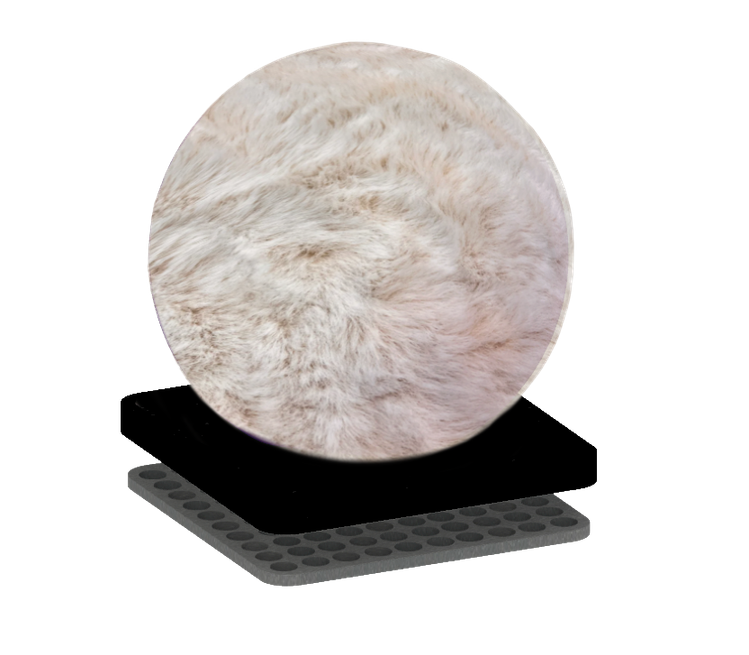
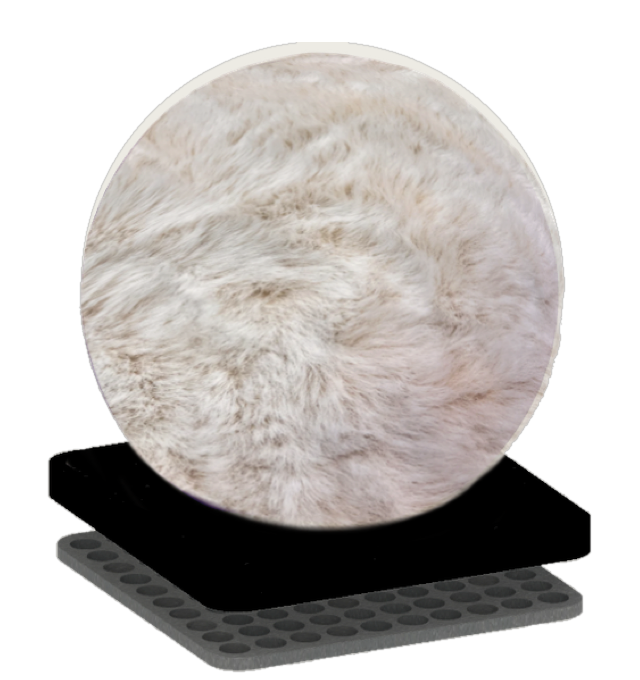
Make ORB material swatches interactive with camouflage stage
Clicking a swatch swaps the orb render and fills the stage backdrop
with the same texture, showing ORB camouflaging into each material.
Adds the fourth material (woven canvas) and per-material orb renders
extracted from the project deck with transparent backgrounds.

diff --git a/orb.html b/orb.html
@@ -106,24 +106,29 @@
         <section class="project-section">
           <p class="section-label">05 · Materials</p>
           <h3>Finishes that match your home</h3>
-          <p>Because the shell is separate from the core, it can be finished in more than plastic. ORB's covers come in materials that belong on furniture, so it blends into a living room shelf, a kitchen counter, or a car console instead of hiding under them.</p>
-          <div class="swatch-grid">
-            <figure class="swatch">
+          <p>Because the shell is separate from the core, it can be finished in more than plastic. ORB's covers come in materials that belong on furniture — the goal is camouflage: an appliance that disappears into the sofa, the car seat, the kitchen counter, instead of hiding under them.</p>
+          <p class="try-note">Tap a material to see ORB camouflage into it.</p>
+          <div class="swatch-grid" id="orb-swatches">
+            <button type="button" class="swatch" data-ball="images/products/orb-canvas.png" data-tex="images/products/orb-mat-canvas.jpg" data-alt="ORB in woven canvas on its charging dock, camouflaged against a canvas background" data-caption="Woven canvas — ORB disappears against sofas and upholstered chairs.">
+              <img src="images/products/orb-mat-canvas.jpg" alt="Natural woven canvas texture" />
+              <span class="swatch-label">Woven Canvas</span>
+            </button>
+            <button type="button" class="swatch" data-ball="images/products/orb-leather.png" data-tex="images/products/orb-mat-leather.jpg" data-alt="ORB in pebbled black leather on its charging dock, camouflaged against a leather background" data-caption="Pebbled leather — ORB blends into car interiors and leather seating.">
               <img src="images/products/orb-mat-leather.jpg" alt="Pebbled black leather texture" />
-              <figcaption>Pebbled Leather</figcaption>
-            </figure>
-            <figure class="swatch">
-              <img src="images/products/orb-mat-cotton.jpg" alt="Woven cotton fabric with red stripes" />
-              <figcaption>Woven Cotton</figcaption>
-            </figure>
-            <figure class="swatch">
+              <span class="swatch-label">Pebbled Leather</span>
+            </button>
+            <button type="button" class="swatch is-active" data-ball="images/products/orb-fur.png" data-tex="images/products/orb-mat-fur.jpg" data-alt="ORB in soft faux fur on its charging dock, camouflaged against a fur background" data-caption="Faux fur — ORB hides among cushions, throws, and rugs.">
               <img src="images/products/orb-mat-fur.jpg" alt="Soft cream faux fur texture" />
-              <figcaption>Faux Fur</figcaption>
-            </figure>
+              <span class="swatch-label">Faux Fur</span>
+            </button>
+            <button type="button" class="swatch" data-ball="images/products/orb-cotton.png" data-tex="images/products/orb-mat-cotton.jpg" data-alt="ORB in woven cotton with red stripes on its charging dock, camouflaged against a cotton background" data-caption="Woven cotton — ORB sits camouflaged beside kitchen linens and runners.">
+              <img src="images/products/orb-mat-cotton.jpg" alt="Woven cotton fabric with red stripes" />
+              <span class="swatch-label">Woven Cotton</span>
+            </button>
           </div>
-          <div class="project-figure">
-            <img src="images/products/orb-fur.png" alt="ORB wrapped in a soft faux-fur cover, resting on its charging dock" />
-            <p class="caption">One of the swappable covers — ORB in faux fur, at home among cushions and throws.</p>
+          <div class="project-figure orb-stage" id="orb-stage" style="background-image: url('images/products/orb-mat-fur.jpg')">
+            <img id="orb-ball" src="images/products/orb-fur.png" alt="ORB in soft faux fur on its charging dock, camouflaged against a fur background" />
+            <p class="caption" id="orb-caption">Faux fur — ORB hides among cushions, throws, and rugs.</p>
           </div>
         </section>
       </div>

diff --git a/css/style.css b/css/style.css
@@ -566,16 +566,29 @@ a.featured:hover .view { text-decoration: underline; }
 }
 .swatch-grid {
   display: grid;
-  grid-template-columns: repeat(3, 1fr);
+  grid-template-columns: repeat(4, 1fr);
   gap: 18px;
   margin: 22px 0 28px;
 }
 .swatch {
   margin: 0;
+  padding: 0;
   border: 1px solid #d9c9d6;
   border-radius: 14px;
   overflow: hidden;
   background: #fff;
+  font: inherit;
+  cursor: pointer;
+  transition: border-color 0.2s ease, box-shadow 0.2s ease, transform 0.15s ease;
+}
+.swatch:hover { transform: translateY(-2px); box-shadow: 0 8px 18px rgba(123, 36, 64, 0.12); }
+.swatch.is-active {
+  border-color: #7b2440;
+  box-shadow: 0 0 0 3px rgba(123, 36, 64, 0.18);
+}
+.swatch:focus-visible {
+  outline: 2px solid #7b2440;
+  outline-offset: 2px;
 }
 .swatch img {
   display: block;
@@ -583,7 +596,9 @@ a.featured:hover .view { text-decoration: underline; }
   aspect-ratio: 4 / 3;
   object-fit: cover;
 }
-.swatch figcaption {
+.swatch figcaption,
+.swatch .swatch-label {
+  display: block;
   font-family: -apple-system, BlinkMacSystemFont, 'Segoe UI', sans-serif;
   font-size: 0.8rem;
   letter-spacing: 0.06em;
@@ -594,8 +609,28 @@ a.featured:hover .view { text-decoration: underline; }
   border-top: 1px solid #f0e4ec;
   background: #fbf4f9;
 }
+.swatch.is-active .swatch-label { background: #7b2440; color: #fff; }
+.try-note {
+  font-family: -apple-system, BlinkMacSystemFont, 'Segoe UI', sans-serif;
+  font-size: 0.82rem;
+  letter-spacing: 0.08em;
+  text-transform: uppercase;
+  color: #9c6b93;
+  margin: 18px 0 0;
+}
+.project-figure.orb-stage {
+  background-repeat: no-repeat;
+  background-size: cover;
+  background-position: center;
+}
+.project-figure.orb-stage img {
+  background: none;
+  transition: opacity 0.18s ease;
+}
+.project-figure.orb-stage.swapping img { opacity: 0; }
+.project-figure.orb-stage .caption { border-top: none; }
 @media (max-width: 600px) {
-  .swatch-grid { grid-template-columns: 1fr; }
+  .swatch-grid { grid-template-columns: 1fr 1fr; gap: 12px; }
 }
 .project-body .pull-quote {
   font-family: 'Playfair Display', Georgia, serif;

diff --git a/js/site.js b/js/site.js
@@ -133,4 +133,32 @@
       bell.setAttribute('aria-expanded', 'false');
     });
   }
+
+  // ORB material camouflage stage
+  var orbStage = document.getElementById('orb-stage');
+  if (orbStage) {
+    var orbBall = document.getElementById('orb-ball');
+    var orbCaption = document.getElementById('orb-caption');
+    var swatches = Array.prototype.slice.call(document.querySelectorAll('#orb-swatches .swatch'));
+
+    swatches.forEach(function (btn) {
+      // preload so the swap is instant
+      var pre = new Image();
+      pre.src = btn.getAttribute('data-ball');
+
+      btn.addEventListener('click', function () {
+        if (btn.classList.contains('is-active')) return;
+        swatches.forEach(function (b) { b.classList.remove('is-active'); });
+        btn.classList.add('is-active');
+        orbStage.classList.add('swapping');
+        setTimeout(function () {
+          orbBall.src = btn.getAttribute('data-ball');
+          orbBall.alt = btn.getAttribute('data-alt');
+          orbStage.style.backgroundImage = "url('" + btn.getAttribute('data-tex') + "')";
+          orbCaption.textContent = btn.getAttribute('data-caption');
+          orbStage.classList.remove('swapping');
+        }, 180);
+      });
+    });
+  }
 })();
